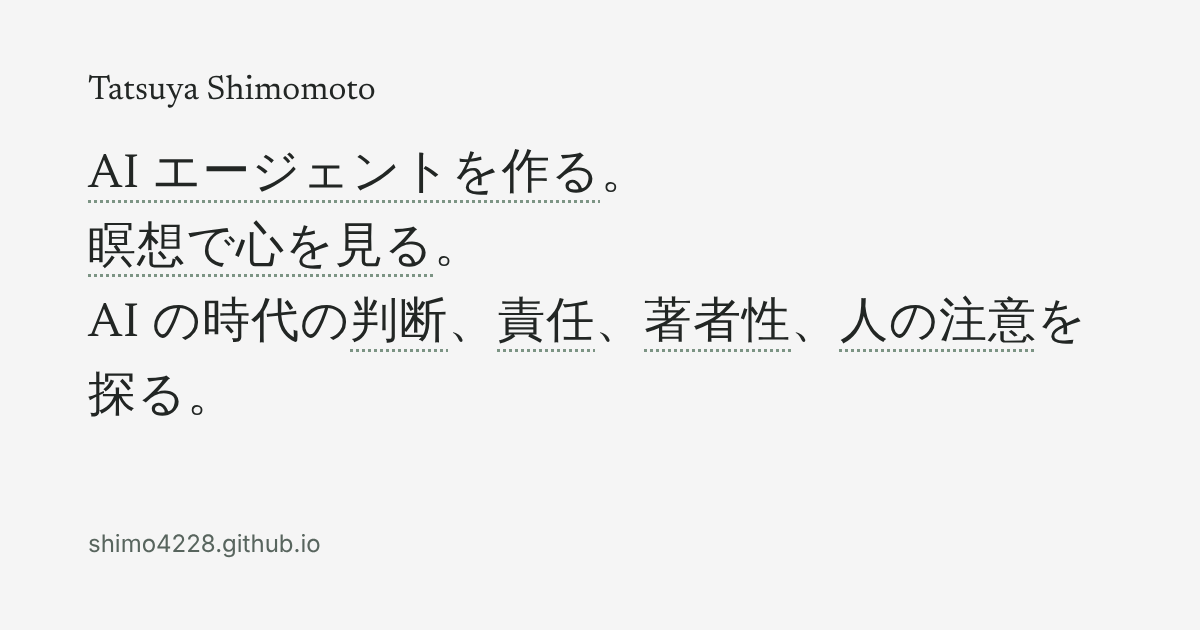
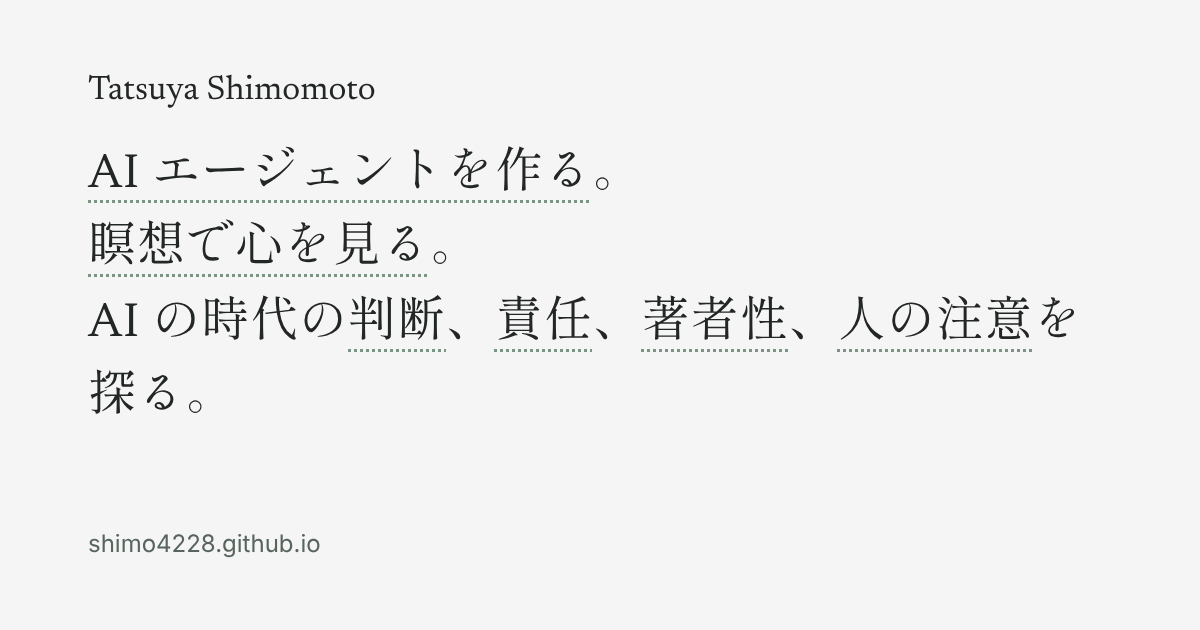
Balance English and Japanese sentence sizes, phrase-aware English breaks, Shippori Mincho fallback for Japanese
Claude-Session: https://claude.ai/code/session_019DAsgAr1q8XNjDN9LyLaD1

diff --git a/site.css b/site.css
@@ -44,7 +44,7 @@
   --color-accent: #40634b;
 }
 :lang(ja) {
-  --font-display: "Newsreader", "Hiragino Mincho ProN", "Yu Mincho", "YuMincho", "Noto Serif JP", serif;
+  --font-display: "Newsreader", "Hiragino Mincho ProN", "Shippori Mincho Display", "Yu Mincho", "YuMincho", "Noto Serif JP", serif;
   --font-body: system-ui, -apple-system, "Hiragino Sans", "Hiragino Kaku Gothic ProN", "Noto Sans JP", "Yu Gothic UI", Meiryo, sans-serif;
   --leading-body: 1.85;
 }
@@ -61,6 +61,15 @@
     --color-accent-line: #3b734e;
     --color-accent: #6caa81;
   }
+}
+/* 83 characters from the display roles, subset from site/fonts/ShipporiMincho-Regular.ttf (SIL OFL 1.1, fonts/OFL.txt). */
+@font-face {
+  font-family: "Shippori Mincho Display";
+  src: url("/fonts/shippori-mincho-display.c192183479.woff2") format("woff2");
+  font-weight: 400;
+  font-style: normal;
+  font-display: swap;
+  unicode-range: U+3001, U+3002, U+3042, U+3044, U+3048, U+304C, U+304D, U+3051, U+3053, U+3055, U+3059, U+305A, U+305B, U+305D, U+3061, U+3063, U+3064, U+3066, U+3067, U+3068, U+306B, U+306E, U+306F, U+3072, U+307E, U+3082, U+308A, U+308B, U+3092, U+3093, U+30A7, U+30A8, U+30AB, U+30B8, U+30B9, U+30C4, U+30C8, U+30CD, U+30CF, U+30DA, U+30DC, U+30E9, U+30EB, U+30ED, U+30F3, U+30FC, U+4E00, U+4E0A, U+4EBA, U+4EE3, U+4EFB, U+4F5C, U+5224, U+5247, U+52D5, U+5411, U+5C5E, U+5F0F, U+5F8B, U+5FC3, U+6027, U+60F3, U+610F, U+63A2, U+65AD, U+660E, U+6642, U+6CE8, U+6E21, U+7791, U+7D44, U+7E54, U+8003, U+8005, U+81EA, U+8457, U+898B, U+898F, U+8AAC, U+8CAC, U+95A2, U+FF08, U+FF09;
 }
 
 /* The sentence, glossed. Rules and values: DESIGN.md. Tokens come first in the built file. */
@@ -279,7 +288,9 @@ a {
   margin-block: var(--space-xs) var(--space-xl);
   font-family: var(--font-display);
   font-weight: 400;
-  font-size: var(--step-4);
+  /* Below step-4 at both ends (30px on a 375px phone, 52px from about 880px), so the English sits at about 1.15
+     times the Japanese line beside it, the usual optical pair for Latin over kanji and kana. */
+  font-size: clamp(1.625rem, 0.75rem + 4.8vw, 3.25rem);
   line-height: 1.16;
   letter-spacing: -0.012em;
   max-inline-size: 19em;
@@ -287,9 +298,9 @@ a {
 }
 
 .sentence:lang(ja) {
-  /* About 12.5 characters across a 375px phone, so the first two sentences stay on one line each.
+  /* About 12 characters across a 375px phone, so the first two sentences stay on one line each.
      The rem floor keeps it growing under page and text zoom (WCAG 1.4.4). */
-  font-size: max(min(var(--step-3), 6.9vw), 1.375rem);
+  font-size: max(min(var(--step-3), 7.1vw), 1.375rem);
   line-height: 1.5;
   letter-spacing: 0.02em;
   max-inline-size: 23em;
@@ -300,7 +311,7 @@ a {
   display: block;
 }
 
-/* Japanese: a "keep" group moves to the next line whole rather than splitting (phones);
+/* A "keep" group moves to the next line whole rather than splitting (phones);
    a "tail" group always starts its own line, so the break falls where the sections divide. */
 .sentence .keep {
   display: inline-block;

diff --git a/404.html b/404.html
@@ -38,7 +38,7 @@
   <section class="lost" aria-labelledby="lost-en">
     <h1 id="lost-en" class="lost-title">Nothing here</h1>
     <p>This page doesn’t exist. The home page lists everything.</p>
-    <p class="sentence sentence--small"><span class="line"><a href="/#tools">Building AI agents</a>, and <a href="/#mind">watching the mind through meditation</a>.</span> <span class="line">Exploring <a href="/#akc">judgment</a>, <a href="/#aap">accountability</a>, <a href="/#authorship-strategy">authorship</a>, and <a href="/#attention-not-self">human attention</a> in the&nbsp;age&nbsp;of&nbsp;AI.</span></p>
+    <p class="sentence sentence--small"><span class="line"><a href="/#tools">Building&nbsp;AI&nbsp;agents</a>, and&nbsp;<a href="/#mind">watching&nbsp;the&nbsp;mind through&nbsp;meditation</a>.</span> <span class="line">Exploring&nbsp;<a href="/#akc">judgment</a>, <span class="keep"><a href="/#aap">accountability</a>, <a href="/#authorship-strategy">authorship</a>,</span> and&nbsp;<a href="/#attention-not-self">human&nbsp;attention</a> in&nbsp;the&nbsp;age&nbsp;of&nbsp;AI.</span></p>
   </section>
   <section class="lost" lang="ja" aria-labelledby="lost-ja">
     <h2 id="lost-ja" class="lost-title">ページが<wbr>ありません</h2>

diff --git a/index.html b/index.html
@@ -41,7 +41,7 @@
 <main id="main" class="center page">
   <section class="intro" aria-labelledby="name">
     <h1 id="name" class="name">Tatsuya Shimomoto</h1>
-    <p class="sentence"><span class="line"><a href="#tools">Building AI agents</a>, and <a href="#mind">watching the mind through meditation</a>.</span> <span class="line">Exploring <a href="#akc">judgment</a>, <a href="#aap">accountability</a>, <a href="#authorship-strategy">authorship</a>, and <a href="#attention-not-self">human attention</a> in the&nbsp;age&nbsp;of&nbsp;AI.</span></p>
+    <p class="sentence"><span class="line"><a href="#tools">Building&nbsp;AI&nbsp;agents</a>, and&nbsp;<a href="#mind">watching&nbsp;the&nbsp;mind through&nbsp;meditation</a>.</span> <span class="line">Exploring&nbsp;<a href="#akc">judgment</a>, <span class="keep"><a href="#aap">accountability</a>, <a href="#authorship-strategy">authorship</a>,</span> and&nbsp;<a href="#attention-not-self">human&nbsp;attention</a> in&nbsp;the&nbsp;age&nbsp;of&nbsp;AI.</span></p>
     <nav class="entrances" aria-labelledby="entrances-h">
   <h2 id="entrances-h" class="visually-hidden">Read and follow</h2>
   <dl class="entrance-groups">
